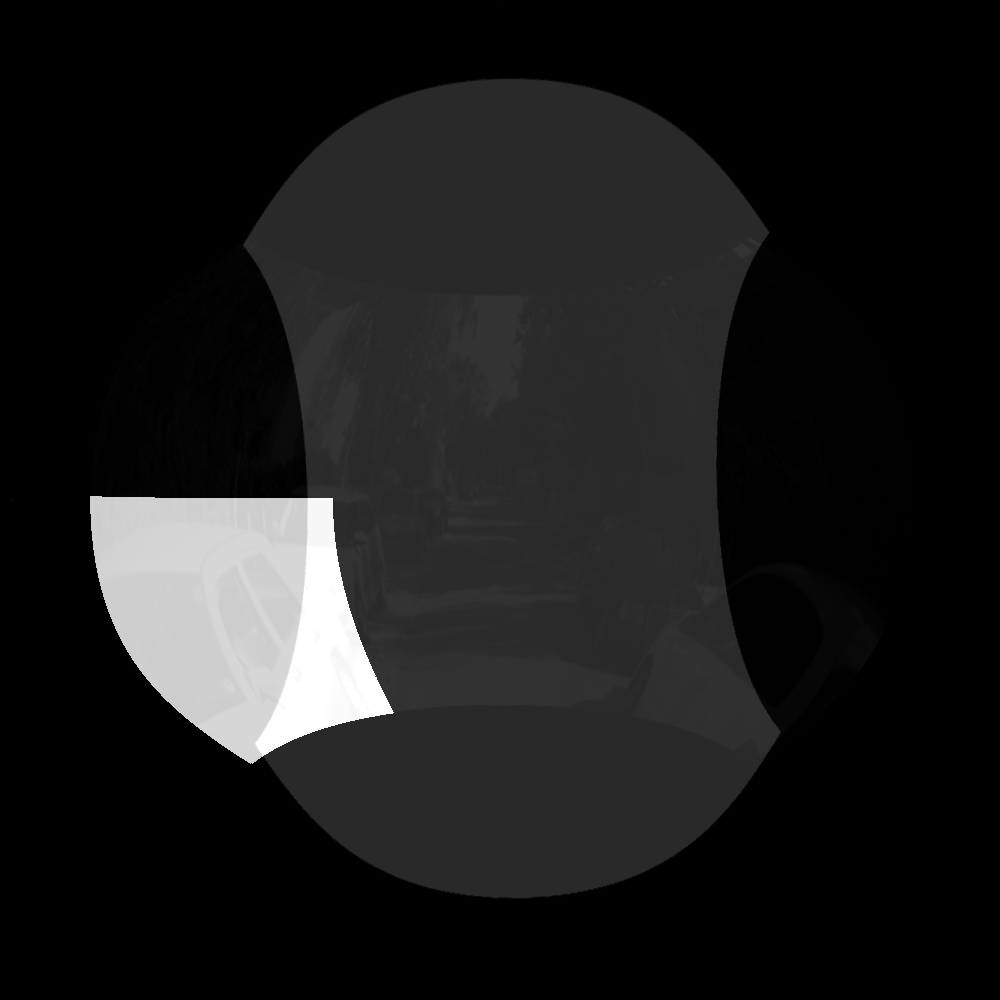
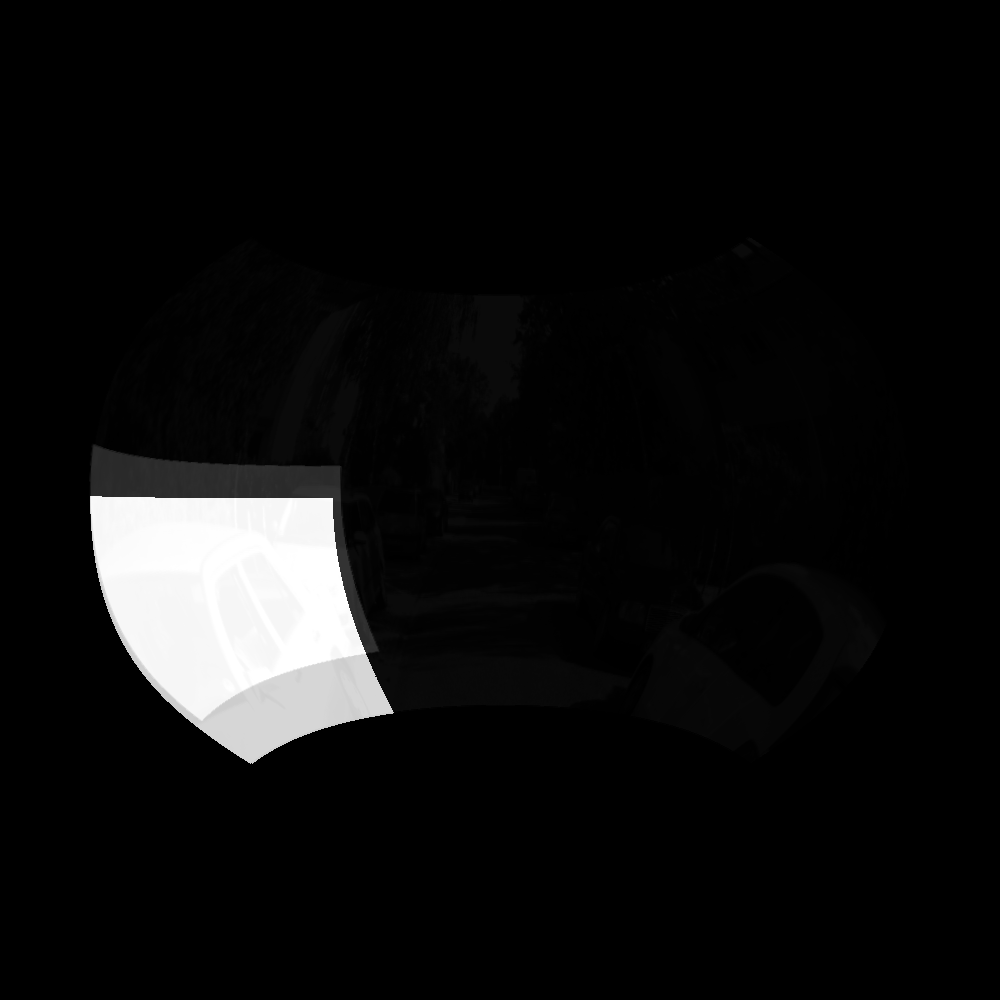
add some lines

diff --git a/newfile/preprocess_adv.py b/newfile/preprocess_adv.py
@@ -303,7 +303,7 @@ def mask_anchor(anchor,H):
             center_x = int((step_x + (step_x + step_size))/2)
             center_y = int((step_y + (step_y + step_size))/2)
             for l in range(anchor_size):
-
+                pdb.set_trace()
                 w_ = float(x[l].split(",")[0])
                 h_ = float(x[l].split(",")[1])
 
@@ -311,8 +311,8 @@ def mask_anchor(anchor,H):
 
                 #side = int(w_*1224/488)
                 #ver = int(h_*370/488)
-                side = int(w_*500/39)
-                ver = int(h_*200/13)
+                side = int(w_)
+                ver = int(h_)
 
                 side_min = center_x - side
                 side_max = center_x + side
@@ -340,7 +340,7 @@ def mask_anchor(anchor,H):
                 #-------------------------------------------------
 
                 
-                resize_mask = mask_base
+                resize_mask = mask_base.T
                 if l == 0:
                     mask = resize_mask[np.newaxis]
                 else:
@@ -493,7 +493,10 @@ def detect_R_T(ann,anchor,path_num):
     
     dumps = list()
     path = ['redidual_1','redidual_2','redidual_3','redidual_4']
-    
+    with open('../data/ann_anchor_data/mask_anchor.pickle',mode = 'rb') as f:
+        mask_anchor = pickle.load(f)
+        mask_anchor = np.reshape(mask_anchor/255,[361,5,1000,1000])
+        
     for ann_len in range(len(ann)):
     
         img_name = ann[ann_len][0]
@@ -501,7 +504,8 @@ def detect_R_T(ann,anchor,path_num):
         
         for ann_0_len in range(len(ann[ann_len][1])):
         
-            error = list()
+            error = list()    
+            iou = list()
             name = ann[ann_len][1][ann_0_len][0]
             current = list()
             annotations_x = np.array(ann[ann_len][1][ann_0_len][1][0])
@@ -510,12 +514,47 @@ def detect_R_T(ann,anchor,path_num):
             x_min = np.min(annotations_x)
             y_max = np.max(annotations_y)
             y_min = np.min(annotations_y)
-           
+            
+            mask_annotation = np.zeros([1000,1000])
+            mask_annotation[ann[ann_len][1][ann_0_len][1]] = 1
             for anchor_len in range(len(anchor)):
-        
                 error_parts = list()
-                
+                iou_parts = list()
+
                 for anchor_0_len in range(len(anchor[anchor_len])):
+                    my_list_ann = []
+                    my_list_anchor = []
+                        
+                    anchor_len_ = len(anchor[anchor_len][anchor_0_len][0])
+                    ann_len_ = len(ann[ann_len][1][ann_0_len][1][0])
+                    
+                    for k in range(30):
+                        x = random.randint(0,ann_len_-1)
+                        y = random.randint(0,anchor_len_-1)
+                        my_list_ann.append(x)
+                        my_list_anchor.append(y)
+            
+                    ann_stack = np.vstack((ann[ann_len][1][ann_0_len][1][0][my_list_ann],ann[ann_len][1][ann_0_len][1][1][my_list_ann]))
+                    
+                    anchor_stack = np.vstack((anchor[anchor_len][anchor_0_len][0][my_list_anchor],anchor[anchor_len][anchor_0_len][1][my_list_anchor]))
+                    
+                    dcpoints = ann_stack - anchor_stack
+                    d = np.linalg.norm(dcpoints)
+                    
+                    if d < 700:
+                    #pdb.set_trace()
+                        intersection = mask_anchor[anchor_len][anchor_0_len] * mask_annotation
+                        union = mask_anchor[anchor_len][anchor_0_len] + mask_annotation
+                        intersection = len(np.where(intersection>0)[0])
+                        union = len(np.where(union>0)[0])
+                        iou_0 = intersection/union
+                    else:
+                        iou_0 = 0
+                    iou_parts.append(iou_0)
+                    #print(iou_0)
+                #print(iou_parts)        
+                iou.append(iou_parts)
+                """                
                     anchor_len_ = len(anchor[anchor_len][anchor_0_len][0])
                     ann_len_ = len(ann[ann_len][1][ann_0_len][1][0])
                     
@@ -535,18 +574,21 @@ def detect_R_T(ann,anchor,path_num):
                     d = np.linalg.norm(dcpoints, axis=0)
                     error_0 = sum(d)
                     error_parts.append(error_0)
+           
                 error.append(error_parts)
-            error = np.array(error).T
+                """
+            #pdb.set_trace()
+            iou = np.array(iou).T
             
-            min_index = list()
+            max_index = list()
             
-            for i in range(error.shape[0]):
-                min_index.append(np.argmin(error[i])) 
+            for i in range(iou.shape[0]):
+                max_index.append(np.argmax(iou[i])) 
             R_list = list()
             T_list = list()  
             #pdb.set_trace() 
-            for i in range(len(min_index)):
-                index = min_index[i]
+            for i in range(len(max_index)):
+                index = max_index[i]
                 anchor_len_ = len(anchor[index][i][0])
                 ann_len_ = len(ann[ann_len][1][ann_0_len][1][0])
                     
@@ -564,9 +606,9 @@ def detect_R_T(ann,anchor,path_num):
                 R, T = ICP_matching(ann_stack,anchor_stack)
                 #pdb.set_trace()
                 ###############################
-                """
-                #pdb.set_trace()
                 
+                #pdb.set_trace()
+                """    
                 with open('../data/ann_anchor_data/mask_anchor.pickle',mode = 'rb') as f:
                     anchor_ = pickle.load(f)
                 anchor_ = np.reshape(anchor_,(361,5,1000,1000))
@@ -574,7 +616,7 @@ def detect_R_T(ann,anchor,path_num):
                 with open('../data/mask_ann/001163.pickle',mode = 'rb') as f:
                     an = pickle.load(f)
                 X = np.zeros((1000,1000))
-                pdb.set_trace()
+                #pdb.set_trace()
                 
                 X[ann[0][1][0][1]] = 255
                 #X[ann[0][1][0][1]] = 255
@@ -583,9 +625,10 @@ def detect_R_T(ann,anchor,path_num):
                 
                 #pdb.set_trace()
                 for annn in range(5):
-                    an_ = anchor_[min_index[0],annn]
+                    an_ = anchor_[max_index[0],annn]
                     affine = cv2.getRotationMatrix2D((0,0),R,1.0)
-                    
+                    affine[0][2] = T[0]
+                    affine[0][2] = T[1]
                     #pdb.set_trace()
                     pre=cv2.warpAffine(an_, affine, (1000,1000))
                     prediction = cv2.addWeighted(np.asarray(img,np.float64),0.2,np.asarray(pre,np.float64),0.8,0)
@@ -600,7 +643,7 @@ def detect_R_T(ann,anchor,path_num):
                 """
                 R_list.append(R)
                 T_list.append(T)
-            current = [name,R_list,T_list,x_min,y_min,x_max,y_min,min_index]
+            current = [name,R_list,T_list,x_min,y_min,x_max,y_min,max_index]
             #pdb.set_trace()
             all.append(current)
             #pdb.set_trace()
@@ -626,19 +669,19 @@ def make_area():
                
         
         for ann_len in range(len(ann)):
-            mask = np.zeros((1000,1000))
-            for ann_0_len in range(len(ann[ann_len][1])): 
+            for ann_0_len in range(len(ann[ann_len][1])):
+                mask = np.zeros((1000,1000))
                 X=ann[ann_len][1][ann_0_len][1]
                 mask[X] = 1
-            name = ann[ann_len][0][:6]
+                name = ann[ann_len][0][:6]
             #pdb.set_trace()
-            mask = cv2.resize(mask,(100,100))
-            with open('../data/mask_ann/{0}.pickle'.format(name),mode = 'wb') as f:
-                pickle.dump(mask,f)   
+                mask = cv2.resize(mask,(100,100))
+                with open('../data/mask_ann/{0}_{1}.pickle'.format(name,ann_0_len),mode = 'wb') as f:
+                    pickle.dump(mask,f)   
             print("finish : {0}".format(name))
            
 if __name__ ==  '__main__':
-
+    #make_area()
     if not os.path.exists('../data/ann_anchor_data/mask_anchor.pickle'):
         with open("anchor.txt") as f:
             x = f.read().split()
@@ -667,7 +710,7 @@ if __name__ ==  '__main__':
         #pdb.set_trace()
         with open('../data/ann_anchor_data/anchor_coords.pickle',mode = 'wb') as f:
             pickle.dump(anchor_coords,f)
-        
+        #pdb.set_trace()        
         print("finish making mask anchor")
     
     #----------------------------------------
@@ -738,7 +781,7 @@ if __name__ ==  '__main__':
 
         
         
-    elif not os.path.exists('../data/redidual_1/redidual_parts_1.pickle'): 
+    if not os.path.exists('../data/redidual_1/redidual_parts_1.pickle'): 
         with open('../data/ann_anchor_data/anchor_coords.pickle',mode = 'rb') as f:
             anchor = pickle.load(f)
 
@@ -768,7 +811,7 @@ if __name__ ==  '__main__':
         
         print("finish 4")
 
-    elif not os.path.exists('../data/ann_anchor_data/annotations_nor_.pickle'):
+    if not os.path.exists('../data/ann_anchor_data/annotations_nor.pickle'):
         
         dumps = list()
         dumps_1,cur_dir = load_data('../data/redidual_1')

diff --git a/darkflow/net/flow.py b/darkflow/net/flow.py
@@ -159,22 +159,25 @@ def make_result(out,this_batch):
         
         T_0 = np.dot(np.divide(out_now[1][max_indx][max_anchor]+1,2),t_0_max-t_0_min)+t_0_min
         T_1 = np.dot(np.divide(out_now[2][max_indx][max_anchor]+1,2),t_1_max-t_1_min)+t_1_min
-        
+        #pdb.set_trace()        
         
         anchor_now = np.reshape(anchor,[361,5,1000,1000])[max_indx][max_anchor]
-        src = np.array([[0.0, 0.0],[0.0, 1.0],[1.0, 0.0]], np.float32)
-        dest = np.array([[0.0, 0.0], [np.sin(R),np.cos(R)], [np.cos(R),-np.sin(R)]], np.float32)
-        dest = src.copy()
-        dest[:,0] += T_0
-        dest[:,1] += T_1
-        affine = cv2.getAffineTransform(src, dest)
+        #src = np.array([[0.0, 0.0],[0.0, 1.0],[1.0, 0.0]], np.float32)
+        #dest = np.array([[0.0, 0.0], [np.sin(R),np.cos(R)], [np.cos(R),-np.sin(R)]], np.float32)
+        dest = cv2.getRotationMatrix2D((0,0),R,1.0)
+
+        dest[0][2] = T_0
+        dest[1][2] = T_1
+        #affine = cv2.getAffineTransform(src, dest)
         
-        anchor_now = np.tile(anchor_now[np.newaxis].T.astype(np.uint8),[1,1,3])
-        anchor_now = cv2.warpAffine(anchor_now, affine, (1000, 1000))
-        
+        #anchor_now = np.tile(anchor_now[np.newaxis].astype(np.uint8),[1,1,3])
+        pre = cv2.warpAffine(anchor_now, dest, (1000, 1000))
+        pre = np.tile(np.transpose(pre[np.newaxis],[1,2,0]).astype(np.uint8),[1,1,3])
         imgcv = cv2.imread(os.path.join('data/VOC2012/sphere_test',this_batch[i]))  
-                  
-        prediction = cv2.addWeighted(np.asarray(imgcv,np.float64),0.5,np.asarray(anchor_now,np.float64),0.5,0)
+        
+
+        #pdb.set_trace()          
+        prediction = cv2.addWeighted(np.asarray(imgcv,np.float64),0.5,np.asarray(pre,np.float64),0.5,0)
         cv2.imwrite(os.path.join('data/out_test','test_image_{0}.png'.format(this_batch[i][:6])),prediction)
         
     return 0

diff --git a/darkflow/net/yolov2/train.py b/darkflow/net/yolov2/train.py
@@ -178,7 +178,7 @@ def mask_anchor(anchor,H):
     step_x=0
     step_y=0
     S = H
-    anchor = np.reshape(anchor,(5,2))
+    #anchor = np.reshape(anchor,(5,2))
     anchor_size = anchor.shape[0]
     step_size = int(img_x/S)
 
@@ -192,8 +192,8 @@ def mask_anchor(anchor,H):
             center_x = int((step_x + (step_x + step_size))/2)
             center_y = int((step_y + (step_y + step_size))/2)
             for l in range(anchor_size):
-                w_ = anchor[l][0]
-                h_ = anchor[l][0]
+                w_ = float(anchor[l].split(",")[0])
+                h_ = float(anchor[l].split(",")[1])
 
                 mask_base = np.zeros((img_x,img_y),dtype=int)
 
@@ -217,10 +217,12 @@ def mask_anchor(anchor,H):
 
                 mask_base[ver_min:ver_max,side_min:side_max] = 255
                 resize_mask = np.resize(mask_base,(100,100))
-                #grid = get_projection_grid(b=500)
-                #rot = rand_rotation_matrix(deflection=1.0)
-                #grid = rotate_grid(rot,grid)
-                #mask_base = project_2d_on_sphere(mask_base,grid)
+                grid = get_projection_grid(b=500)
+                rot = rand_rotation_matrix(deflection=1.0)
+                grid = rotate_grid(rot,grid)
+                mask_base = project_2d_on_sphere(mask_base,grid)
+                resize_mask = resize_mask.T
+                #resize_mask = np.resize(mask_base,(100,100)).T
                 if l == 0:
                     mask = resize_mask[np.newaxis]
                     #mask_row = mask_base[np.newaxis]

diff --git a/darkflow/net/yolov2/data.py b/darkflow/net/yolov2/data.py
@@ -57,9 +57,17 @@ def _batch(self, chunk):
     T = np.zeros([H*W,B,2])
     proid = np.zeros([H*W,B,C])
     prear = np.zeros([H*W,4])
+    areas = np.zeros([H*W,B,100,100])
+    k = 0
     for obj in allobj:
+
+        os.chdir('data/mask_ann')
+        with open('./{0}_{1}.pickle'.format(jpg[:6],k),mode = 'rb') as f:
+            area = pickle.load(f)
+        os.chdir('../../')
+        k = k + 1        
         for i in range(len(obj[7])):
-            
+            areas[obj[7][i], i, :] = area    
             probs[obj[7][i], i, :] = [[0.]*C][0]  #物体があるセルにクラスの数だけ要素を設けている
             probs[obj[7][i], i, labels.index(obj[0])] = 1.  #そのうち入力された物体の方の確率を１とする
             proid[obj[7][i], i, :] = [[1.]*C][0]
@@ -68,6 +76,7 @@ def _batch(self, chunk):
             T[obj[7][i], :, :] = np.array(obj[2])        
             confs[obj[7][i], i] = 1.  #物体が存在するセルの各BBの信頼度を１とする
         #pdb.set_trace()
+    """    
     os.chdir('data/mask_ann')
     #pdb.set_trace()
     with open('./{0}.pickle'.format(jpg[:6]),mode = 'rb') as f:
@@ -75,6 +84,7 @@ def _batch(self, chunk):
     os.chdir('../../')
     
     areas = np.tile(area,(361,5,1,1))
+    """
     # value for placeholder at input layer
     inp_feed_val = img
     # value for placeholder at loss layer 
